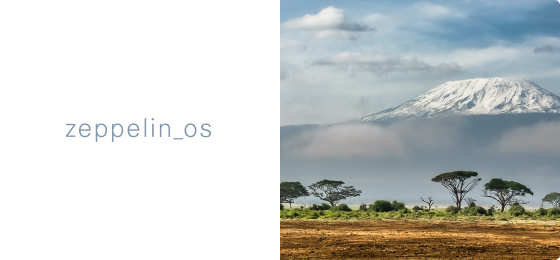
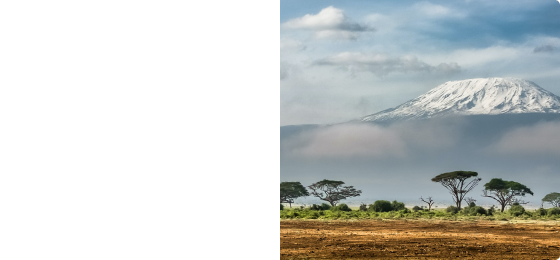
removed zepplin from main page

Changed region(s): [[0.1214, 0.4615, 0.3946, 0.5538]]

diff --git a/src/components/common/footer/footer.js b/src/components/common/footer/footer.js
@@ -46,7 +46,7 @@ export default function Footer (props) {
                 <Col md={3}>
                   <Nav defaultActiveKey="/" className="footer__nav flex-column">
                     <Nav.Link disabled className="footer__nav-link">Solutions</Nav.Link>
-                    <Nav.Link disabled>Gubelstrasse 11, 6300 Zug, Switzerland</Nav.Link>
+                    <Nav.Link disabled>Harju maakond, <br/>Tallinn Kesklinna linnaosa, <br/>Tartu mnt 67/1-13b, 10115</Nav.Link>
                     <Nav.Link className="footer__nav-link" href="mailto:info@windingtree.com">info@windingtree.com</Nav.Link>
                   </Nav>
                 </Col>
